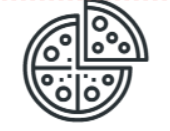
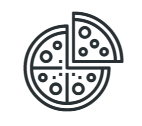
desc success

diff --git a/src/Components/Desc/Description.css b/src/Components/Desc/Description.css
@@ -14,8 +14,9 @@
 }
 
 .abox-4-ico img.feature-image {
-  max-width: 80px;
-  height: auto;
+  margin-left: 0%;
+  max-width: 130px;
+  height: 100px;
   border-radius: 50%;
 }
 
